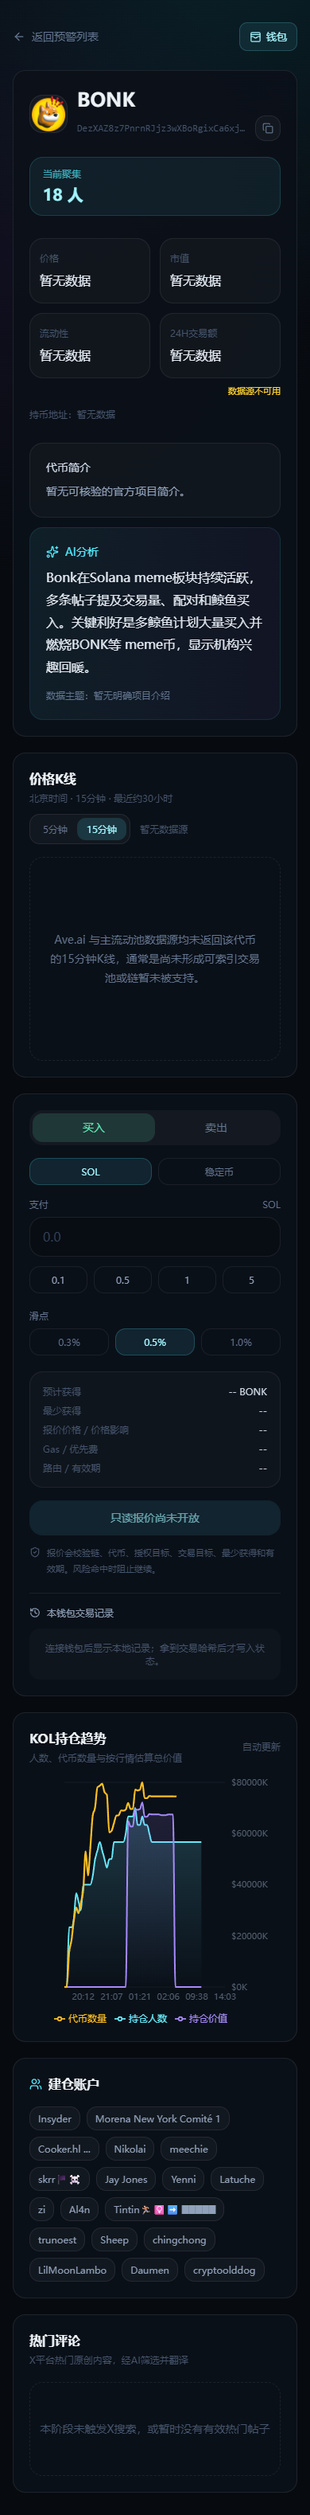
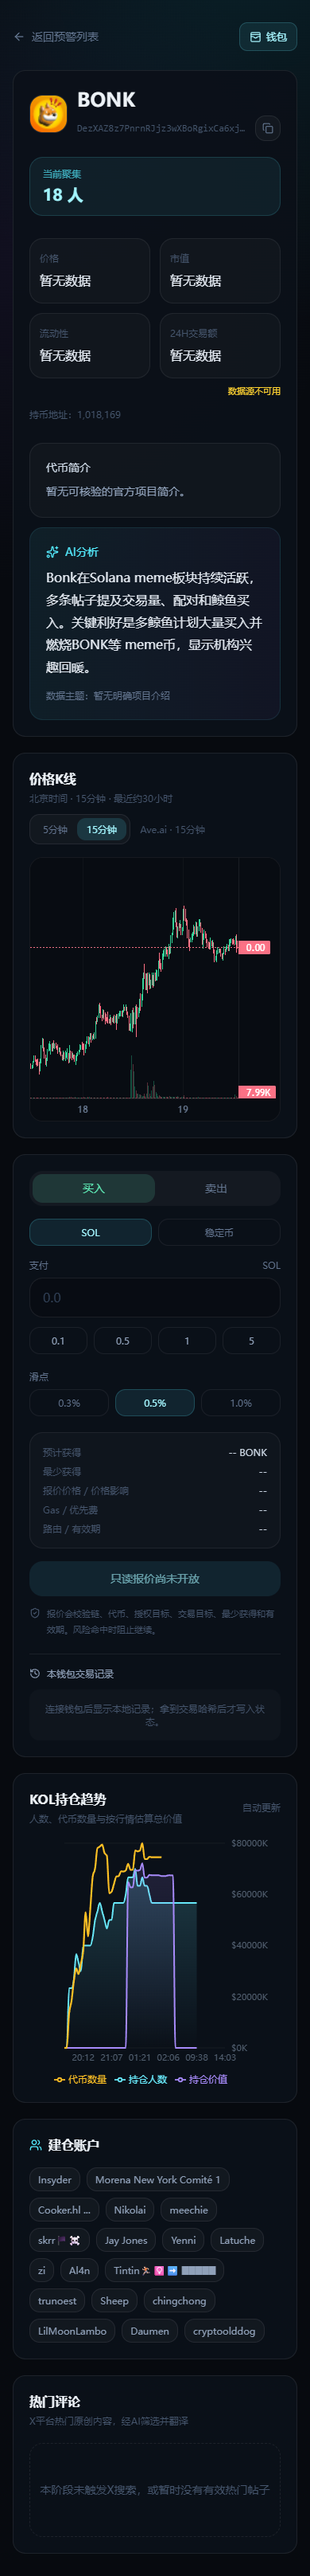
fix: preserve last verified market quote on degradation

diff --git a/tests/e2e/mobile-overflow.spec.ts b/tests/e2e/mobile-overflow.spec.ts
@@ -36,26 +36,45 @@ for (const viewport of [{ width: 375, height: 812 }, { width: 390, height: 844 }
 
 test("production BONK uses real batch market data and 3 second polling", async ({ page, request }) => {
   test.skip(process.env.E2E_REQUIRE_REAL_MARKET !== "1", "production-only evidence");
-  const response = await request.post("/api/market/batch", { data: { tokens: [{ chain: "sol", address: BONK_MINT }] } });
-  expect(response.ok()).toBeTruthy();
-  const payload = await response.json() as { items: Array<{ address: string; source: string; price: number; marketCap: number; liquidity: number; volume24h: number }> };
-  expect(payload.items).toHaveLength(1);
-  expect(payload.items[0].address).toBe(BONK_MINT);
-  expect(payload.items[0].source).not.toBe("unavailable");
-  expect(payload.items[0].price).toBeGreaterThan(0);
-  expect(payload.items[0].marketCap).toBeGreaterThan(0);
-  expect(payload.items[0].liquidity).toBeGreaterThan(0);
-  expect(payload.items[0].volume24h).toBeGreaterThan(0);
+  let payload: { items: Array<{ address: string; source: string; price: number; marketCap: number; liquidity: number; volume24h: number }> } | undefined;
+  for (let attempt = 0; attempt < 5; attempt += 1) {
+    const response = await request.post("/api/market/batch", { data: { tokens: [{ chain: "sol", address: BONK_MINT }] } });
+    expect(response.ok()).toBeTruthy();
+    payload = await response.json();
+    if (payload!.items[0]?.source !== "unavailable") break;
+    await page.waitForTimeout(3_000);
+  }
+  expect(payload).toBeTruthy();
+  const livePayload = payload!;
+  expect(livePayload.items).toHaveLength(1);
+  expect(livePayload.items[0].address).toBe(BONK_MINT);
+  expect(livePayload.items[0].source).not.toBe("unavailable");
+  expect(livePayload.items[0].price).toBeGreaterThan(0);
+  expect(livePayload.items[0].marketCap).toBeGreaterThan(0);
+  expect(livePayload.items[0].liquidity).toBeGreaterThan(0);
+  expect(livePayload.items[0].volume24h).toBeGreaterThan(0);
 
   const signals = await (await request.get("/api/signals")).json() as { signals: Array<{ id: number; tokenAddress: string }> };
   const bonk = signals.signals.find((signal) => signal.tokenAddress === BONK_MINT)!;
   let batchRequests = 0;
+  await page.addInitScript(() => {
+    let simulatedHidden = false;
+    Object.defineProperty(document, "hidden", { configurable: true, get: () => simulatedHidden });
+    Object.defineProperty(window, "__setSimulatedHidden", { value: (value: boolean) => { simulatedHidden = value; document.dispatchEvent(new Event("visibilitychange")); } });
+  });
   page.on("request", (req) => { if (req.url().includes("/api/market/batch")) batchRequests += 1; });
   await page.goto(`/signal/${bonk.id}`, { waitUntil: "domcontentloaded" });
-  await page.waitForTimeout(7_200);
+  await page.waitForTimeout(12_500);
   expect(batchRequests).toBeGreaterThanOrEqual(3);
+  const visibleCount = batchRequests;
+  await page.evaluate(() => (window as unknown as { __setSimulatedHidden(value: boolean): void }).__setSimulatedHidden(true));
+  await page.waitForTimeout(4_000);
+  expect(batchRequests).toBe(visibleCount);
+  await page.evaluate(() => (window as unknown as { __setSimulatedHidden(value: boolean): void }).__setSimulatedHidden(false));
+  await expect.poll(() => batchRequests, { timeout: 2_000 }).toBeGreaterThan(visibleCount);
+  for (let attempt = 0; attempt < 3 && await page.getByRole("img", { name: "15分钟K线图" }).count() === 0; attempt += 1) await page.reload({ waitUntil: "domcontentloaded" });
   await expect(page.getByRole("img", { name: "15分钟K线图" })).toBeVisible();
-  await page.getByRole("button", { name: "5分钟" }).click();
+  await page.getByRole("button", { name: "5分钟", exact: true }).click();
   await expect(page.getByRole("img", { name: "5分钟K线图" })).toBeVisible();
   await expect(page.getByText("数据源不可用")).toHaveCount(0);
 });

diff --git a/app/api/market/batch/route.ts b/app/api/market/batch/route.ts
@@ -1,10 +1,11 @@
-import { getBatchMarketData } from "@/lib/batch-market";
+import { getBatchMarketData, type BatchMarketItem } from "@/lib/batch-market";
 import { getMarketData } from "@/lib/market";
 
 export const dynamic = "force-dynamic";
 
 type TokenInput = { chain?: unknown; address?: unknown };
 const allowedChains = new Set(["sol", "bsc", "base", "robinhood"]);
+const lastAvailable = new Map<string, BatchMarketItem>();
 
 export async function POST(request: Request) {
   let body: { tokens?: TokenInput[] };
@@ -18,10 +19,16 @@ export async function POST(request: Request) {
   });
   const primary = await getBatchMarketData(tokens);
   const items = await Promise.all(primary.map(async (item) => {
-    if (item.source !== "unavailable") return item;
+    const key = `${item.chain}:${item.address.toLowerCase()}`;
+    if (item.source !== "unavailable") { lastAvailable.set(key, item); return item; }
     const fallback = await getMarketData(item.chain, item.address).catch(() => null);
-    if (!fallback || !(fallback.price > 0 || fallback.marketCap > 0 || fallback.liquidity > 0 || fallback.volume24h > 0)) return item;
-    return { ...item, price: fallback.price, marketCap: fallback.marketCap, liquidity: fallback.liquidity, volume24h: fallback.volume24h, source: "Ave/GMGN fallback" };
+    if (!fallback || !(fallback.price > 0 || fallback.marketCap > 0 || fallback.liquidity > 0 || fallback.volume24h > 0)) {
+      const cached = lastAvailable.get(key);
+      return cached ? { ...cached, source: `cached:${cached.source}` } : item;
+    }
+    const available = { ...item, price: fallback.price, marketCap: fallback.marketCap, liquidity: fallback.liquidity, volume24h: fallback.volume24h, source: "Ave/GMGN fallback" };
+    lastAvailable.set(key, available);
+    return available;
   }));
   return Response.json({ items, serverTime: new Date().toISOString() }, { headers: { "Cache-Control": "public, max-age=2, stale-while-revalidate=10" } });
 }

diff --git a/lib/use-live-market.ts b/lib/use-live-market.ts
@@ -2,7 +2,7 @@
 
 import { useEffect, useMemo, useRef, useState } from "react";
 import type { BatchMarketItem } from "@/lib/batch-market";
-import { marketKey, mergeMarket, pollingDelay, type LiveMarketItem } from "@/lib/market-live";
+import { marketKey, mergeMarket, pollingDelay, retainLastAvailable, type LiveMarketItem } from "@/lib/market-live";
 
 export function useLiveMarket(tokens: Array<{ chain: string; address: string }>, enabled = true) {
   const stableKey = useMemo(() => tokens.slice(0, 30).map((token) => marketKey(token.chain, token.address)).join("|"), [tokens]);
@@ -22,7 +22,7 @@ export function useLiveMarket(tokens: Array<{ chain: string; address: string }>,
         const payload = await response.json() as { items: BatchMarketItem[] };
         if (!active) return;
         const next: Record<string, LiveMarketItem> = {};
-        for (const item of payload.items) { const key = marketKey(item.chain, item.address); next[key] = mergeMarket(previous.current.get(key), item); previous.current.set(key, item); }
+        for (const item of payload.items) { const key = marketKey(item.chain, item.address); const prior = previous.current.get(key); const retained = retainLastAvailable(prior, item); next[key] = mergeMarket(prior, retained); previous.current.set(key, retained); }
         setItems(next); setDegraded(payload.items.some((item) => item.source === "unavailable"));
       } catch { if (active) setDegraded(true); }
       if (active) schedule();

diff --git a/tests/market-live.test.ts b/tests/market-live.test.ts
@@ -1,5 +1,5 @@
 import { describe, expect, it } from "vitest";
-import { direction, isMarketStale, mergeMarket, pollingDelay } from "@/lib/market-live";
+import { direction, isMarketStale, mergeMarket, pollingDelay, retainLastAvailable } from "@/lib/market-live";
 
 const item = { chain: "base", address: "0x1234567890", price: 1, marketCap: 10, liquidity: 5, volume24h: 8, updatedAt: "2026-09-19T00:00:00.000Z", source: "DexScreener" };
 
@@ -14,5 +14,8 @@ describe("live market behavior", () => {
   });
   it("marks quotes older than 30 seconds stale", () => {
     expect(isMarketStale(item.updatedAt, new Date(item.updatedAt).getTime() + 30_001)).toBe(true);
+  });
+  it("retains the last real quote when an upstream poll is temporarily unavailable", () => {
+    expect(retainLastAvailable(item, { ...item, price: 0, source: "unavailable", updatedAt: "2026-09-19T00:01:00.000Z" })).toBe(item);
   });
 });

diff --git a/lib/market-live.ts b/lib/market-live.ts
@@ -15,4 +15,7 @@ export function mergeMarket(previous: BatchMarketItem | undefined, next: BatchMa
     liquidity: direction(previous?.liquidity, next.liquidity), volume24h: direction(previous?.volume24h, next.volume24h),
   } };
 }
+export function retainLastAvailable(previous: BatchMarketItem | undefined, next: BatchMarketItem): BatchMarketItem {
+  return next.source === "unavailable" && previous && previous.source !== "unavailable" ? previous : next;
+}
 export function isMarketStale(updatedAt: string, now = Date.now()) { return now - new Date(updatedAt).getTime() > 30_000; }
